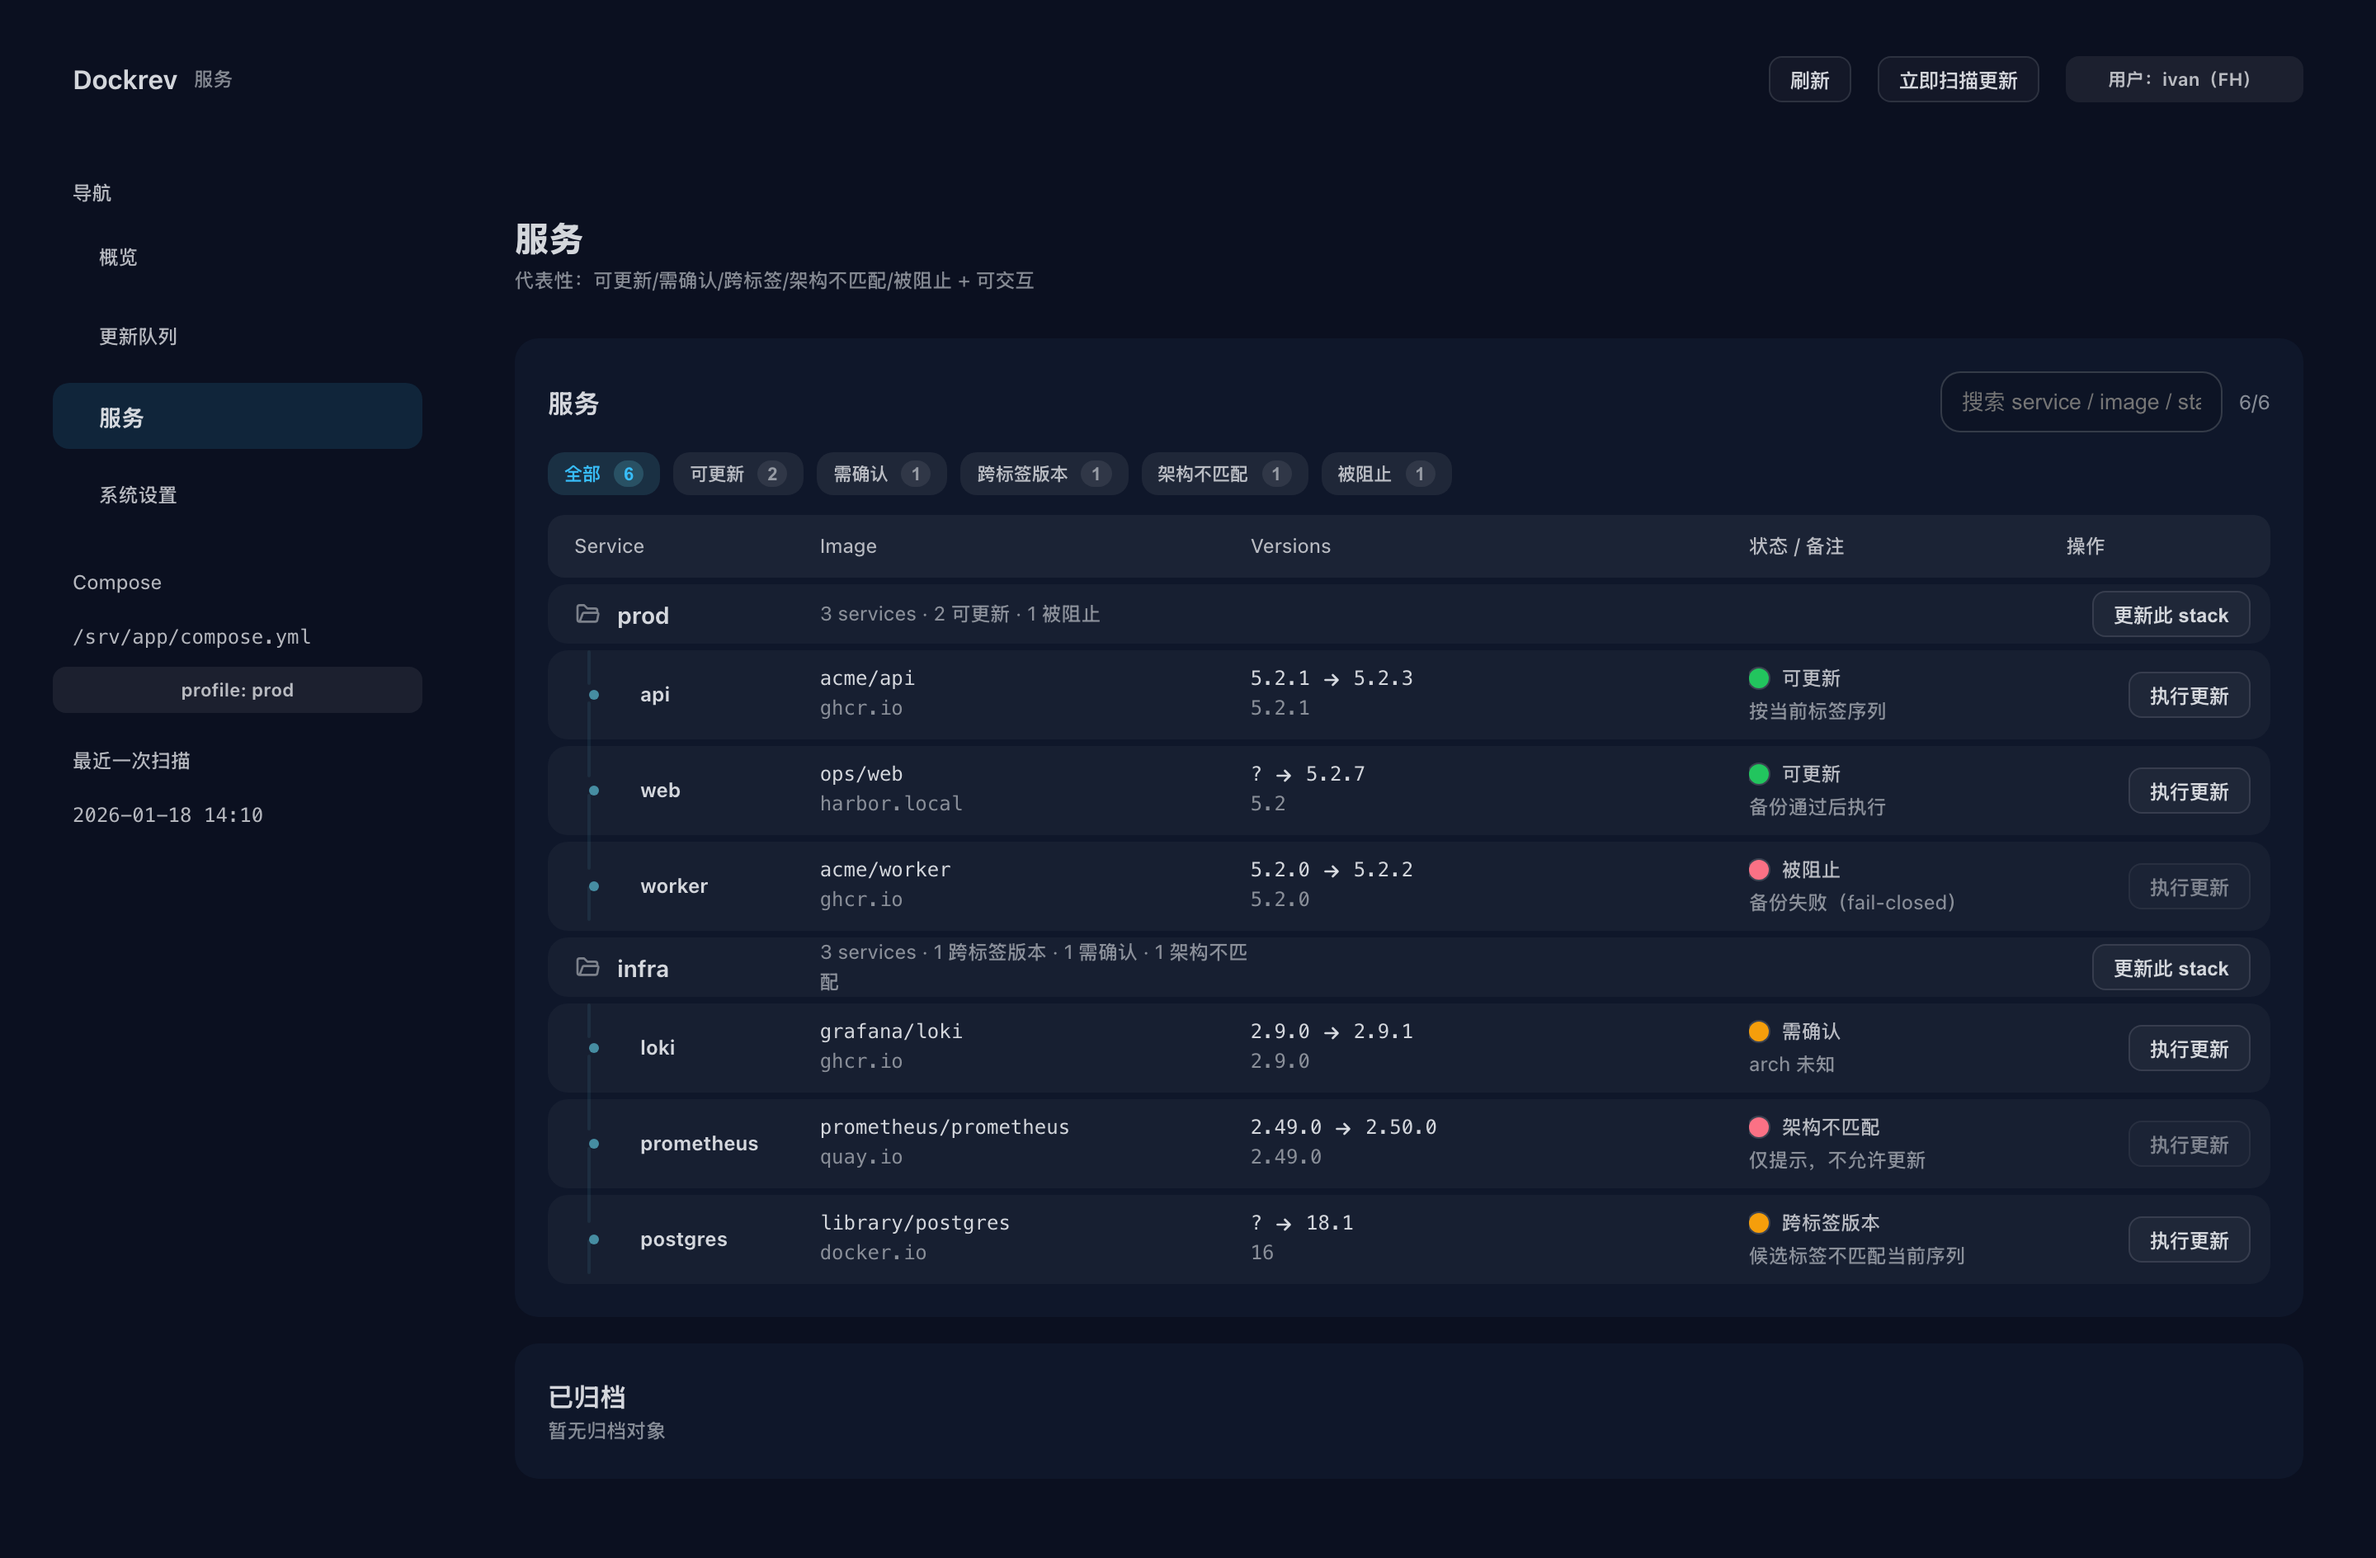
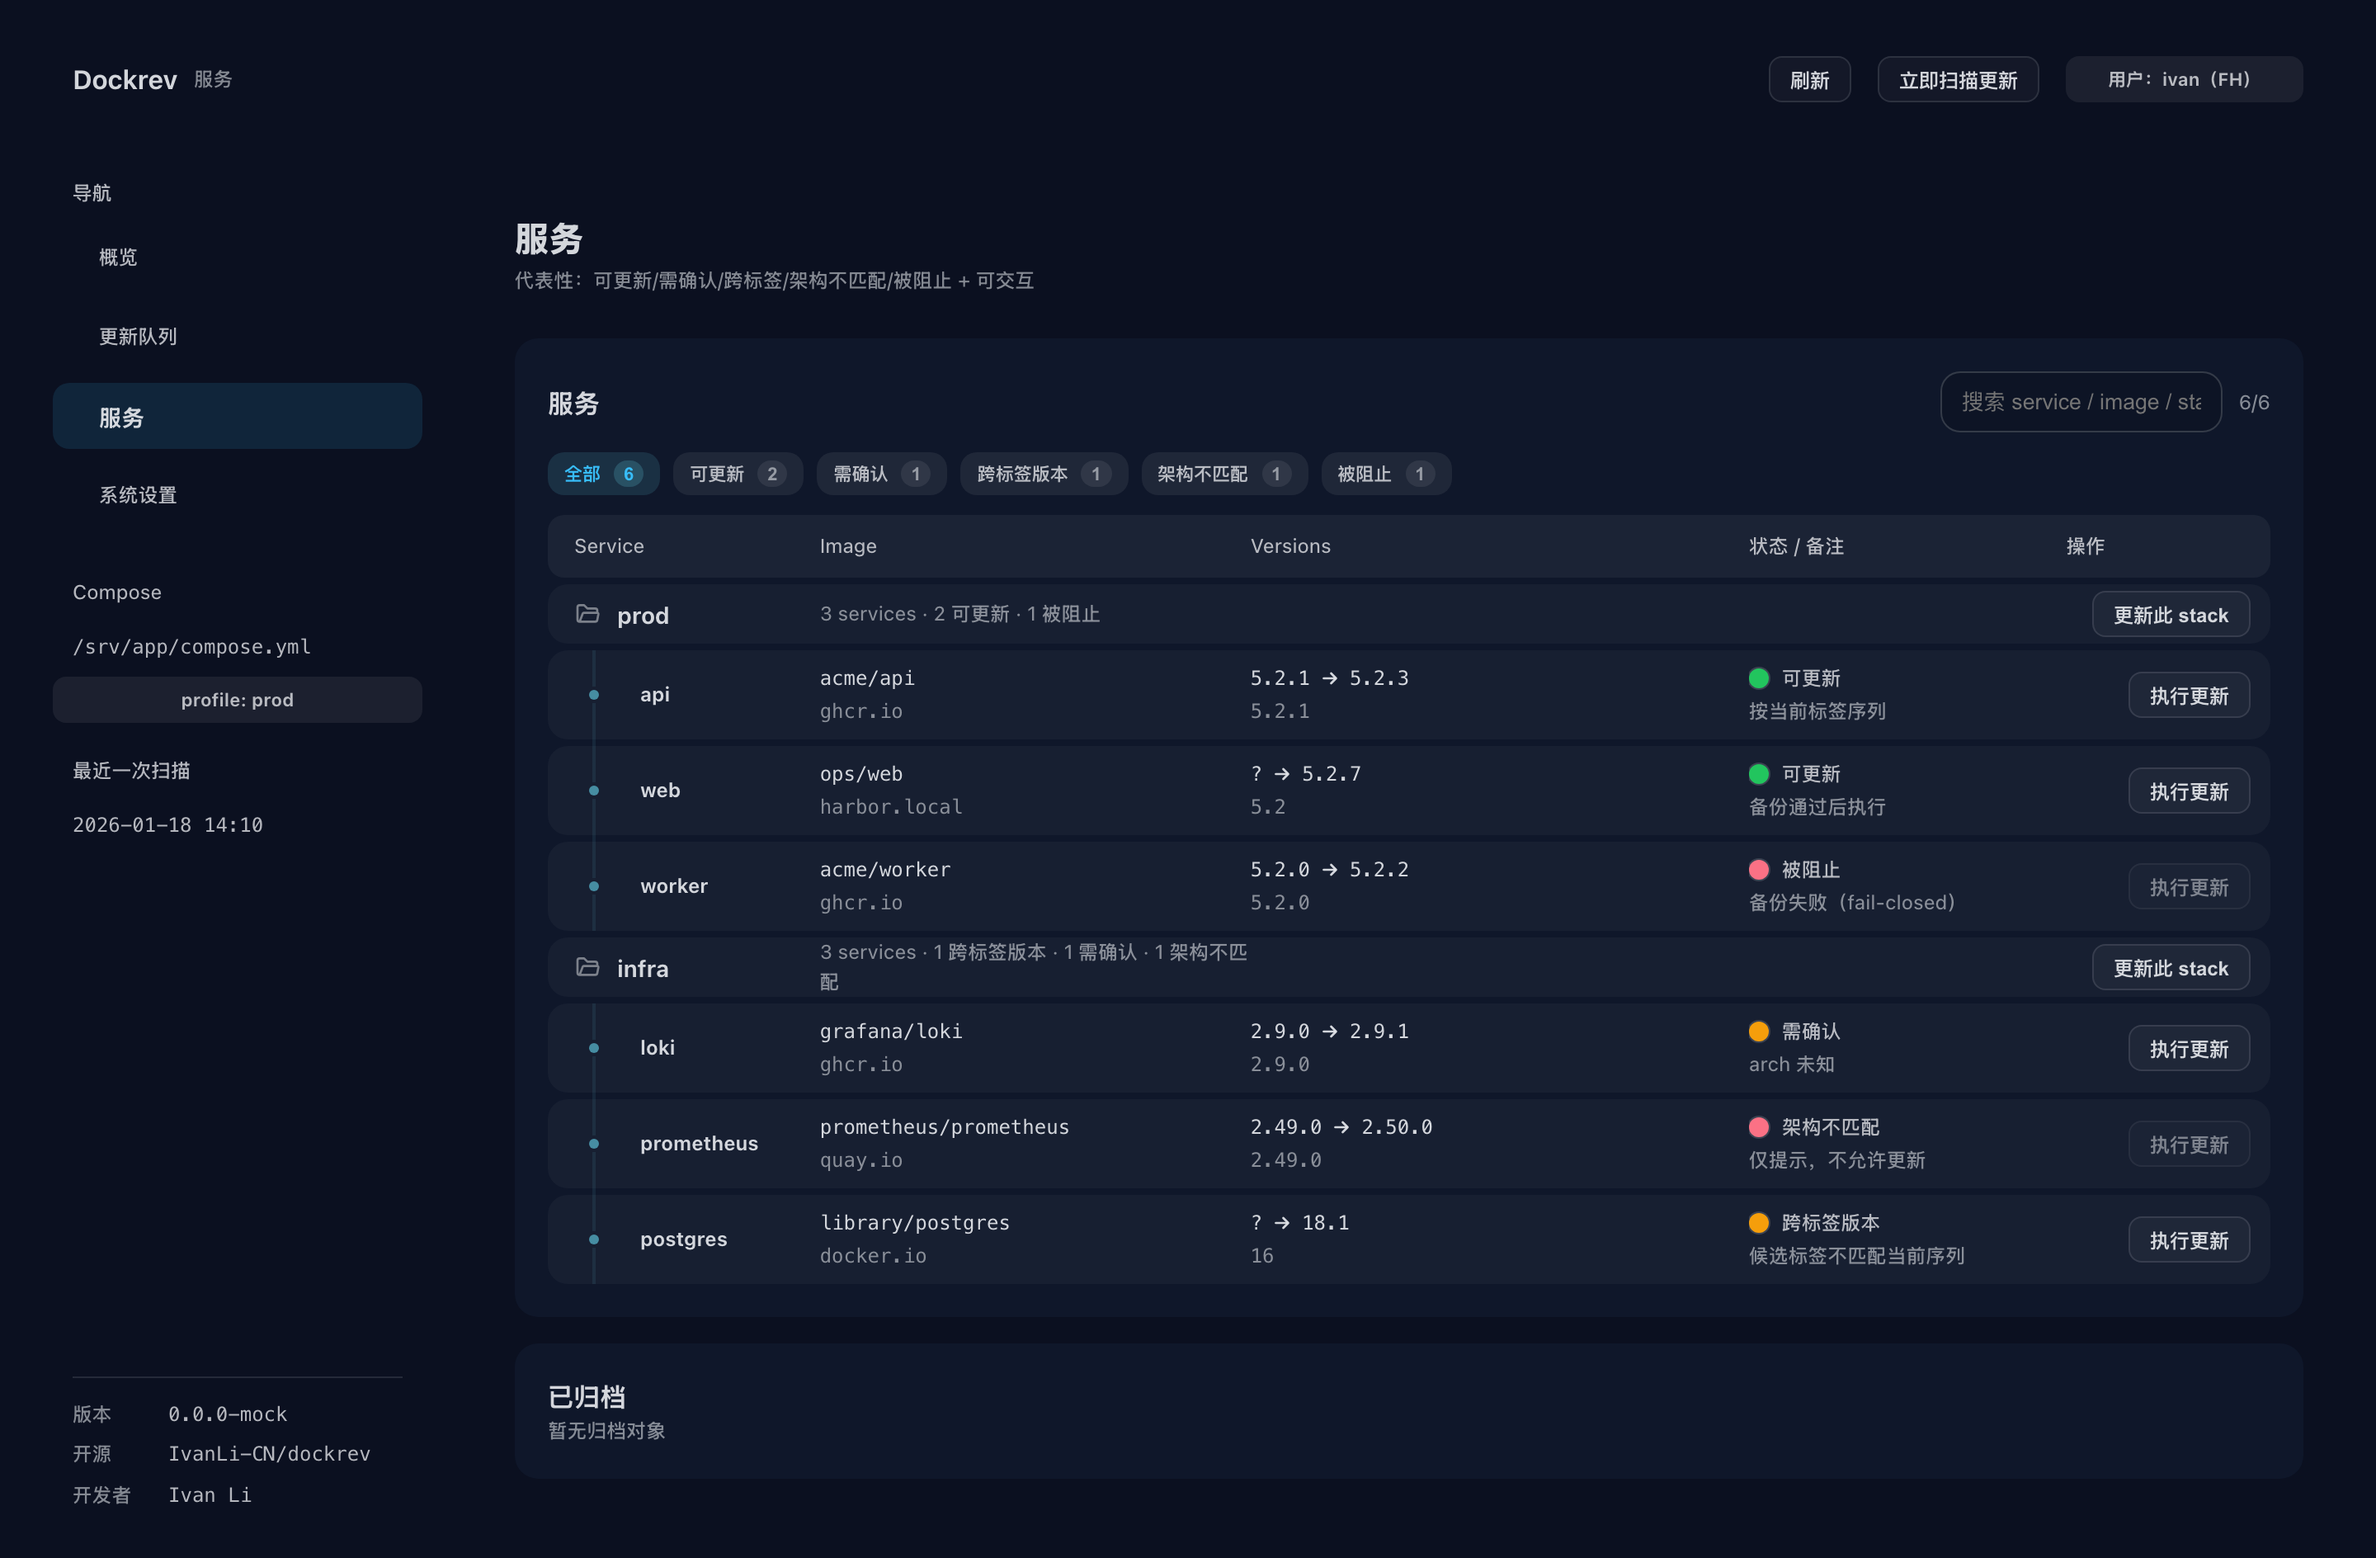
feat(web): show app meta in sidebar

diff --git a/web/src/Shell.tsx b/web/src/Shell.tsx
@@ -1,4 +1,5 @@
-import { useMemo, type ReactNode } from 'react'
+import { useEffect, useMemo, useState, type ReactNode } from 'react'
+import { getDockrevVersion } from './api'
 import { Chip, Mono } from './ui'
 import { ConfirmProvider } from './ConfirmProvider'
 import type { Route } from './routes'
@@ -21,6 +22,7 @@ export function AppShell(props: {
   children: ReactNode
 }) {
   const active = props.route.name === 'service' ? 'services' : props.route.name
+  const [appVersion, setAppVersion] = useState<string | null>(null)
 
   const composePath = props.composeHint?.path
   const profile = props.composeHint?.profile
@@ -35,6 +37,22 @@ export function AppShell(props: {
     ],
     [],
   )
+
+  useEffect(() => {
+    let cancelled = false
+    void getDockrevVersion()
+      .then((v) => {
+        if (cancelled) return
+        setAppVersion(v)
+      })
+      .catch(() => {
+        if (cancelled) return
+        setAppVersion(null)
+      })
+    return () => {
+      cancelled = true
+    }
+  }, [])
 
   return (
     <ConfirmProvider>
@@ -92,6 +110,26 @@ export function AppShell(props: {
           ) : (
             <div className="sidebarMuted">-</div>
           )}
+
+          <div className="sidebarMeta">
+            <div className="sidebarMetaDivider" aria-hidden="true" />
+            <div className="sidebarMetaRow">
+              <span className="sidebarMetaLabel">版本</span>
+              <Mono>{appVersion ?? '-'}</Mono>
+            </div>
+            <div className="sidebarMetaRow">
+              <span className="sidebarMetaLabel">开源</span>
+              <a href="https://github.com/IvanLi-CN/dockrev" target="_blank" rel="noreferrer">
+                <Mono>IvanLi-CN/dockrev</Mono>
+              </a>
+            </div>
+            <div className="sidebarMetaRow">
+              <span className="sidebarMetaLabel">开发者</span>
+              <a href="https://github.com/IvanLi-CN" target="_blank" rel="noreferrer">
+                <Mono>Ivan Li</Mono>
+              </a>
+            </div>
+          </div>
         </aside>
 
         <main className="content">

diff --git a/web/src/App.css b/web/src/App.css
@@ -61,6 +61,8 @@
   background: var(--panel2);
   padding: 18px 16px;
   overflow: auto;
+  display: flex;
+  flex-direction: column;
 }
 
 .sidebarSectionLabel {
@@ -80,6 +82,31 @@
   overflow: hidden;
   text-overflow: ellipsis;
   white-space: nowrap;
+}
+
+.sidebarMeta {
+  margin-top: auto;
+  padding: 0 12px 8px;
+}
+
+.sidebarMetaDivider {
+  height: 1px;
+  background: var(--borderColor);
+  margin: 16px 0 12px;
+}
+
+.sidebarMetaRow {
+  display: flex;
+  align-items: baseline;
+  gap: 10px;
+  line-height: 1.6;
+}
+
+.sidebarMetaLabel {
+  width: 48px;
+  flex: 0 0 auto;
+  font-size: 12px;
+  color: var(--muted2);
 }
 
 .nav {

diff --git a/web/src/api.ts b/web/src/api.ts
@@ -234,6 +234,15 @@ async function apiFetch(path: string, init?: RequestInit) {
   return resp
 }
 
+export async function getDockrevVersion(): Promise<string> {
+  const resp = await apiFetch('/api/version')
+  const data = (await resp.json()) as unknown
+  if (!isRecord(data) || typeof data.version !== 'string' || !data.version.trim()) {
+    throw new Error('invalid /api/version response')
+  }
+  return data.version
+}
+
 export async function listStacks(): Promise<StackListItem[]> {
   const resp = await apiFetch('/api/stacks')
   const data = await resp.json()

diff --git a/web/src/stories/mocks/dockrevMockApi.ts b/web/src/stories/mocks/dockrevMockApi.ts
@@ -672,6 +672,10 @@ export function installDockrevMockApi(scenario: DockrevApiScenario) {
     if (!state) return json({ error: 'mock not initialized' }, { status: 500 })
     const f = state
 
+    if (urlPath === '/api/version' && method === 'GET') {
+      return json({ version: '0.0.0-mock' })
+    }
+
     // stacks
     if (method === 'GET' && (urlPathWithQuery === '/api/stacks' || urlPathWithQuery.startsWith('/api/stacks?'))) {
       const query = url?.search ? url.search.slice(1) : urlPathWithQuery.includes('?') ? urlPathWithQuery.split('?')[1] : ''
